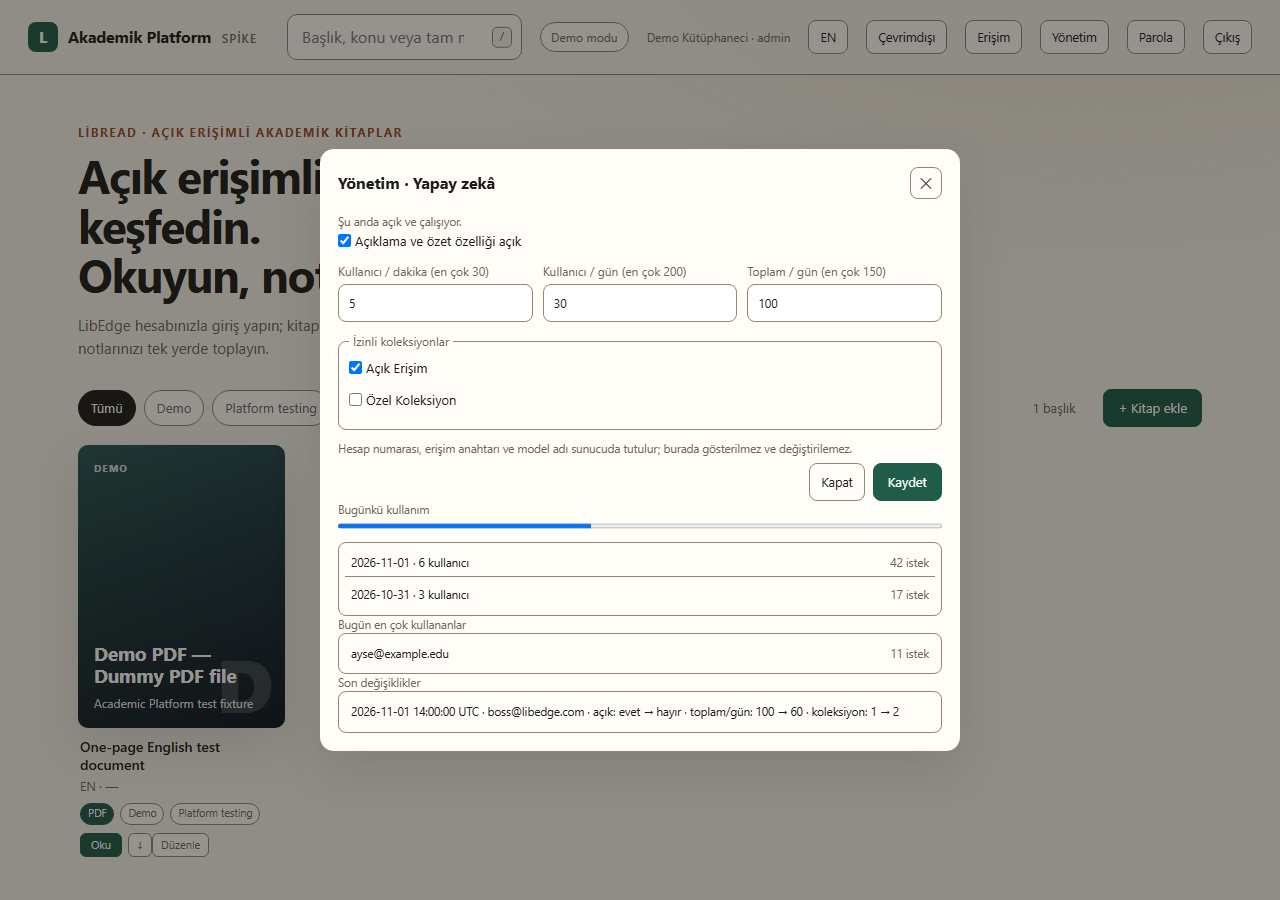
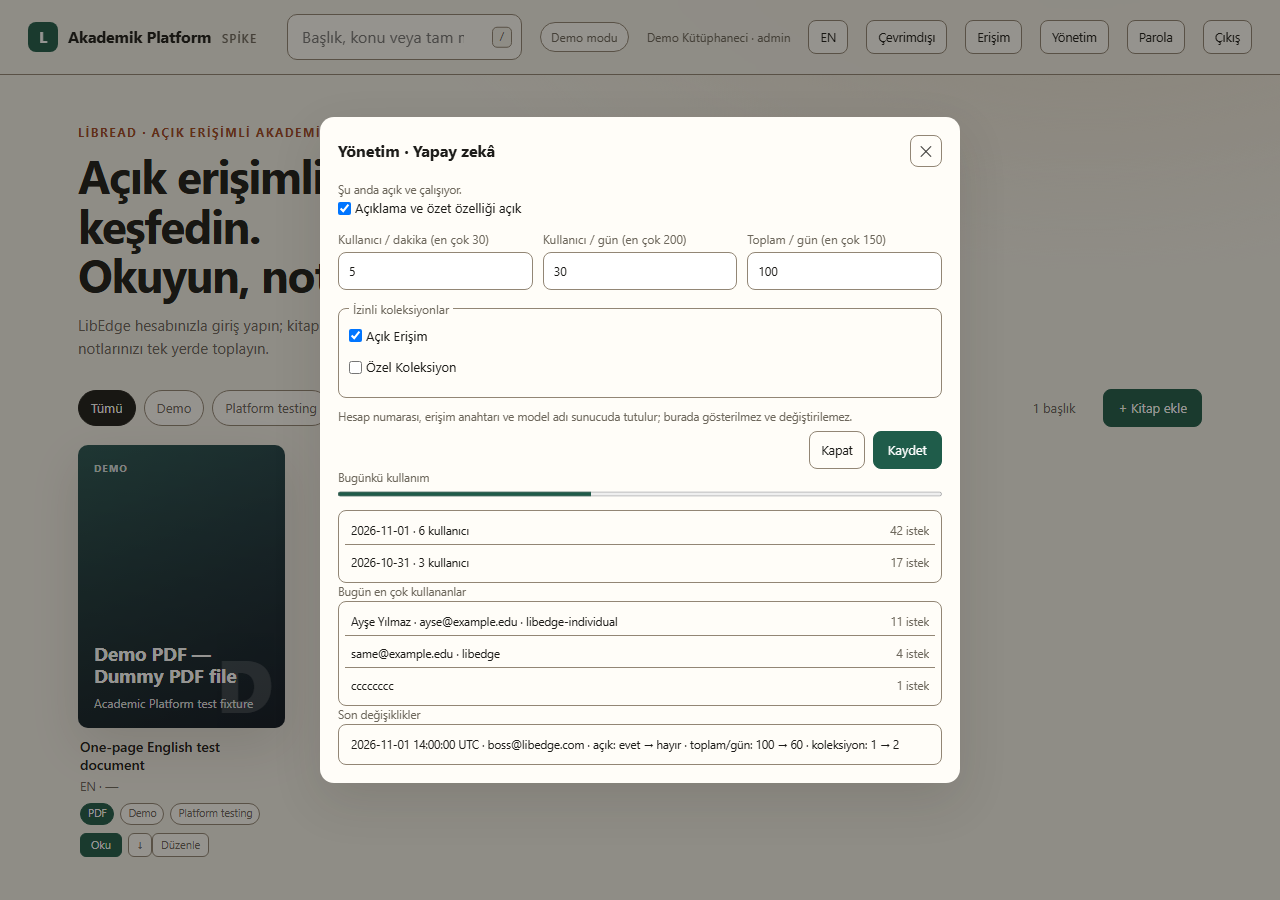
Name the users in the admin usage list (migration 030)
The heaviest-users list showed a bare id for the people who actually use the
feature: they sign in through the LibEdge button and belong to the
libedge-individual tenant, while the administrator is bound to the platform
tenant and users is under row level security.

app.ai_usage_user_labels() is a narrow SECURITY DEFINER function in the shape of
app.tenant_for_login (018): no argument, returns id, e-mail, display name and
tenant slug only for users who appear in ai_usage_daily; no role, hash or session
data. The panel shows "name - e-mail - tenant"; an unnamed user falls back to the
start of the id. sw cache v31.

Tests: db/029.test.mjs (23 checks, now also 030: another tenant's user is named,
a user who never used the feature is not exposed, row level security still hides
the tenant from a plain read, a malformed subject does not break the query),
admin-ai.integration (48), admin-ai-ui.browser (34), migrate (14).

diff --git a/spike/app/public/app.js b/spike/app/public/app.js
@@ -852,6 +852,13 @@ function adminChange(entry) {
   return parts.length ? parts.join(' · ') : adminWord('noChange');
 }
 
+// "Ayşe Yılmaz · ayse@uni.edu · tenant"; the name is left out when it is only the address again, and a
+// user the server could not name is shown by the start of the id.
+function adminPerson(row) {
+  if (!row.email) return String(row.user_id).slice(0, 8);
+  return [row.display_name && row.display_name !== row.email ? row.display_name : null, row.email, row.tenant_slug].filter(Boolean).join(' · ');
+}
+
 function adminRow(list, text, number) {
   const row = document.createElement('div');
   row.className = 'grant-row';
@@ -906,7 +913,7 @@ function renderAdmin(data) {
   const top = $('adminTop');
   top.replaceChildren();
   if (!usage.topToday.length) adminRow(top, t('Bugün kullanım yok.'));
-  usage.topToday.forEach((row) => adminRow(top, row.email || String(row.user_id).slice(0, 8), row.used + ' ' + adminWord('requests')));
+  usage.topToday.forEach((row) => adminRow(top, adminPerson(row), row.used + ' ' + adminWord('requests')));
 }
 
 async function loadAdminAudit() {

diff --git a/spike/app/public/sw.js b/spike/app/public/sw.js
@@ -14,7 +14,8 @@
 // old markup with the new script.
 // v30: the Yönetim button and panel were added to index.html, app.js and styles.css; a cached v29
 // shell would pair the old markup with the new script.
-const CACHE = 'akademik-shell-v30';
+// v31: app.js names the users in the admin usage list; a cached v30 shell would keep the old script.
+const CACHE = 'akademik-shell-v31';
 const SHELL = [
   '/',
   '/styles.css',

diff --git a/docs/runbooks/reader-ai-selection.md b/docs/runbooks/reader-ai-selection.md
@@ -63,7 +63,7 @@ and edits, without touching the server:
 | Allowed collections | Chosen from the tenant's own collections; an id the tenant does not have is refused. |
 
 It also shows today's usage against the total cap, the last 30 days (requests and distinct users),
-today's heaviest users (e-mail), and a change history (who, when, old and new value).
+today's heaviest users (name, e-mail, tenant), and a change history (who, when, old and new value).
 
 What it deliberately does **not** do: show or edit the Cloudflare token, account id or model name.
 No endpoint returns them (a test plants distinctive values and fails if any appears in an admin
@@ -79,6 +79,14 @@ failed audit row also rolls the setting back. Settings are read through a 5-seco
 takes effect at once in the process that handled it. Values are re-clamped at read time, so a row
 edited by hand in the database cannot exceed a ceiling. If the settings cannot be read, the last
 known value (or the environment) stands.
+
+Naming users (migration 030): the people who use the feature mostly sign in through the LibEdge button and
+belong to the `libedge-individual` tenant, while the administrator is bound to the platform tenant, and
+`users` is under row level security. A plain join therefore showed a bare id. `app.ai_usage_user_labels()`
+(SECURITY DEFINER, same shape as `app.tenant_for_login`) takes no argument and returns id, e-mail, display
+name and tenant slug **only for users who appear in `ai_usage_daily`**; no role, hash or session data. The
+usage query is the only caller and sits behind the platform administrator check. A user the function cannot
+name (for example a deleted account) is shown by the start of the id.
 
 Endpoints: `GET/PUT /api/admin/ai`, `GET /api/admin/audit`.
 
@@ -98,7 +106,7 @@ Rollback of the panel itself: the feature behaves exactly as before when `app_se
   `spike/app/test/ai-settings.test.mjs` (validation, ceilings, environment as outer boundary, store),
   `spike/app/test/ai-http.test.mjs` (HTTP gates, demo mode), `db/028.test.mjs`
   (real Postgres, concurrent reservations; fails if the cap is removed from the SQL),
-  `db/029.test.mjs` (real Postgres, append-only audit, atomic save),
+  `db/029.test.mjs` (real Postgres, append-only audit, atomic save; also 030: a user of another tenant is named, one who never used the feature is not exposed),
   `spike/app/test/admin-ai.integration.mjs` (real Postgres and server: roles, tenants, validation,
   no secret in responses, audit, public config follows the switch) and
   `spike/app/test/admin-ai-ui.browser.mjs` (Chromium: button visibility, save payload, errors,
